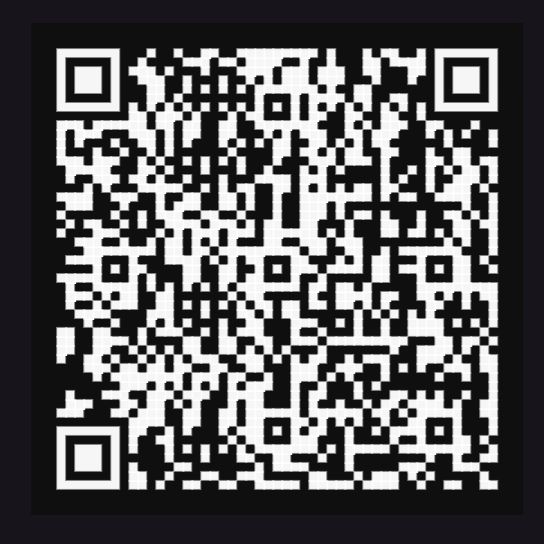
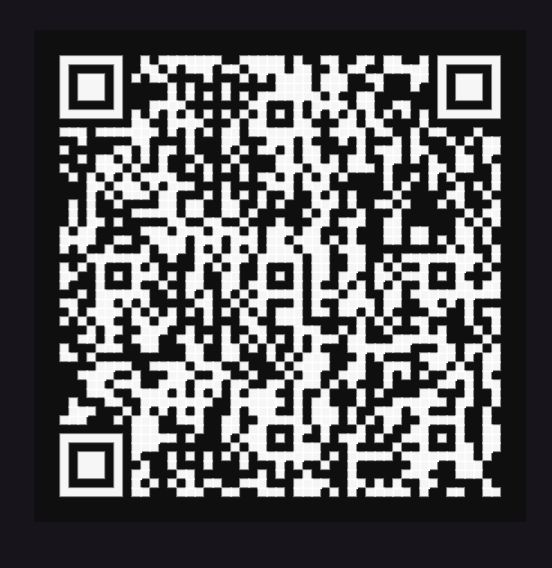
:lipstick: fix: update

diff --git a/src/components/main/main.tsx b/src/components/main/main.tsx
@@ -7,7 +7,7 @@ import qrcode from '/src/assets/qr-code.jpeg';
 
 function Main() {
   const chaveToCopy =
-    '00020126580014BR.GOV.BCB.PIX01361af825c9-b826-47d4-ae2d-62f3546d9db05204000053039865406200.005802BR5924Wendel da Silva de Souza6009SAO PAULO621405101QFBqRuP1V6304D605';
+    '00020126580014BR.GOV.BCB.PIX01361af825c9-b826-47d4-ae2d-62f3546d9db05204000053039865802BR5924Wendel da Silva de Souza6009SAO PAULO62140510u8ntm3Z90h6304B100';
   const buttonRef = useRef<HTMLButtonElement | null>(null);
   useEffect(() => {
     if (buttonRef.current) {

diff --git a/dist/index.html b/dist/index.html
@@ -19,7 +19,7 @@
   <link href="https://fonts.googleapis.com/css2?family=Nova+Slim&display=swap" rel="stylesheet">
   <meta name="description" content="Casamento: Wendel e Rayane">
   <title>Wendel e Rayane</title>
-  <script type="module" crossorigin src="/casamento/assets/index-BMzmugjk.js"></script>
+  <script type="module" crossorigin src="/casamento/assets/index-j-01AI6E.js"></script>
   <link rel="stylesheet" crossorigin href="/casamento/assets/index-FDuMHg66.css">
 </head>
 

diff --git a/src/components/header/header.tsx b/src/components/header/header.tsx
@@ -40,7 +40,7 @@ function Header() {
           </div>
           <div className="detalhe-principal">
             <h1>Wendel e Rayane</h1>
-            <p>26.07.2024</p>
+            <p>30.03.2025</p>
           </div>
         </div>
       </header>
